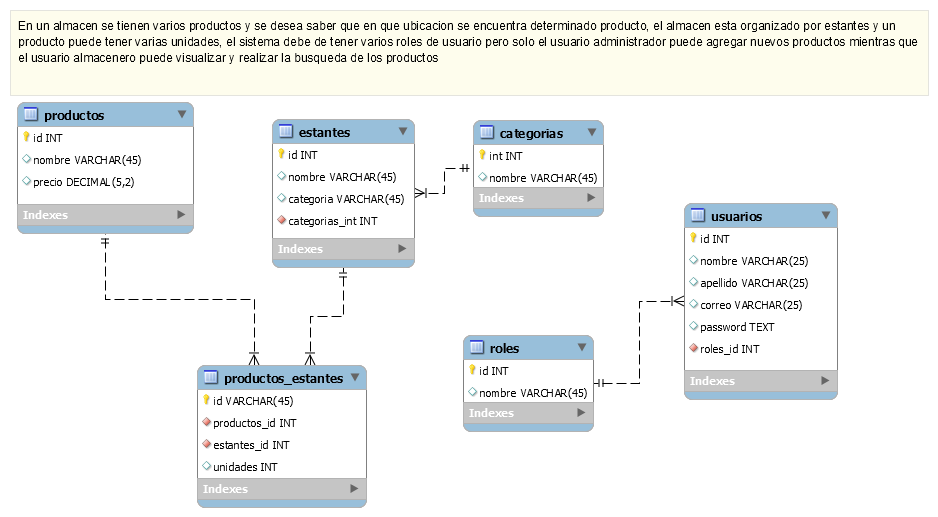
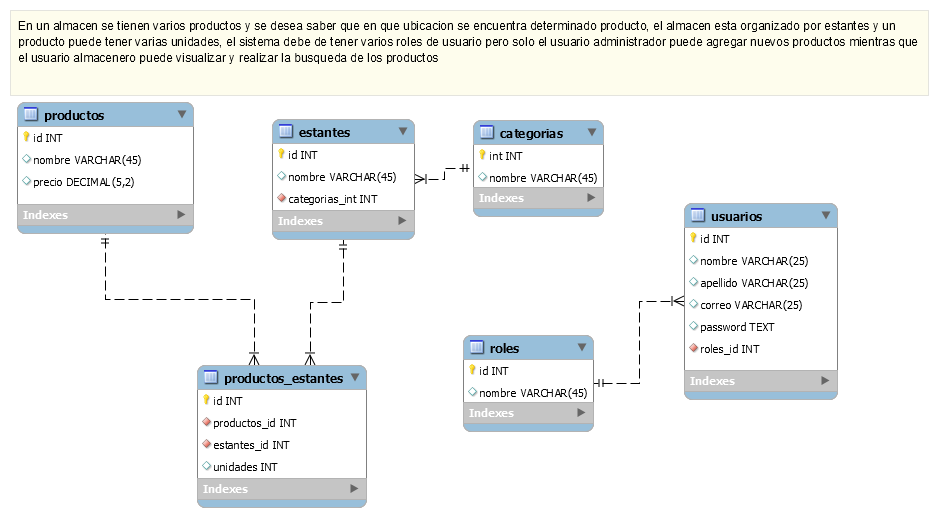
agregando el modelo de la tabla productoEstante y agregando en el archivo relaciones

Changed region(s): [[0.2783, 0.3404, 0.4638, 0.5261], [0.2473, 0.7737, 0.3092, 0.8046]]

diff --git a/src/models/productos.js b/src/models/productos.js
@@ -1,25 +1,38 @@
-// DAtatypes => https://sequelize.org/master/manual/model-basics.html#data-types
+// Datatypes => https://sequelize.org/master/manual/model-basics.html#data-types
 import { DataTypes } from "sequelize";
 import { conexion } from "../config/sequelize";
 
 // Opciones para poner a la columnas: https://sequelize.org/master/manual/model-basics.html#column-options
-
-export default producto_model = () => conexion.define("producto",{
-    productoId: {
-        type:DataTypes.INTEGER,
-        allowNull: false,
-        primaryKey: true,
-        unique:true,
-        autoIncrement: true,
-        field: 'id',
-    },
-    productoNombre: {
-        type: DataTypes,stringify(45),
-        field: "nombre",
-    },
-    productoPrecio: {
-        type: DataTypes.DECIMAL(5, 2),
-        field: "precio",
-    },
-});
+// export default producto_model = () =>
+export default () =>
+    conexion.define(
+        "producto", // nombre del modelo
+        {
+            productoId: {
+                type: DataTypes.INTEGER,
+                allowNull: false,
+                primaryKey: true,
+                unique: true,
+                autoIncrement: true,
+                field: 'id',
+            },
+            productoNombre: {
+                type: DataTypes.STRING(45),
+                field: "nombre",
+            },
+            productoPrecio: {
+                type: DataTypes.DECIMAL(5, 2),
+                field: "precio",
+            },
+        },
+        {
+            tableName: "productos",
+            timestamps: true, // su valor por defecto es true
+            // esto son campos de auditoria, se cran dos columna reatedAt, updatedAt, el
+            // createdAt => se va a registrar la hora actual en la cual se creo ese ServiceWorkerRegistration,
+            // updateAp => va a guardar la hora actual cuando cualquier campo se registre se modifique
+            createdAt: "fecha_creacion",
+            updatedAt: "ultima_modificacion",
+        }
+    );
 

diff --git a/src/config/server.js b/src/config/server.js
@@ -1,19 +1,22 @@
-import express from "express"
-import { json } from "body-parser"
-import { conexion } from "./sequelize"
+import express from "express";
+import { json } from "body-parser";
+import { conexion } from "./sequelize";
+import { Categoria } from "./sequelize";
+import * as prueba from "./relaciones";
+
 
 export default class Server {
-    constructor(){
+    constructor() {
         this.app = express();
         // Definimos el puerto que por lo general es una variable de entoron (esto solo se da en servidores de produccion como HEROKU, DIGITAL OCEN, AZURE) en el caso que no encontrase esa variable de entorno estara el definido (8000)
         this.port = process.env.PORT || 8000;
         this.bodyParser();
     }
-    bodyParser(){
+    bodyParser() {
         // Serive para configurar la forma en la cual el API REST vva a recibir datos del front mediante el body
         this.app.use(json());
     }
-    start(){
+    start() {
         //Sirver para levantar el servidor en el cual le tenemos que pasar el puerto y si todo es exitoso ingresaremos al callback (segundo parametro)
         this.app.listen(this.port, async () => {
             console.log(`Servidor corriendo en: http//:127.0.0.1:${this.port}`);
@@ -21,9 +24,10 @@ export default class Server {
             // alter => si hubo algun cambio en la BD volvera a generar SOLAMENTE esos cambios
             // force => RESETEA (borra) toda la BD y su contenido y lo vuelve a crear de 0, NUNCA USAR ESTO EN MODO PRODUCCION
             try {
-                await conexion.sync();
+                // await conexion.sync({ force: true }); => { force: true } con esto se resetea y vuelve a crear la base datos
+                await conexion.sync({ force: true });
                 console.log("Base de datos sincronizada correctamente");
-            } catch (error){
+            } catch (error) {
                 console.log(error);
             }
         })

diff --git a/src/config/relaciones.js b/src/config/relaciones.js
@@ -1,0 +1,47 @@
+import categoria_model from "../models/categoria";
+import estante_model from "../models/estante";
+import producto_model from "../models/productos";
+import producto_estante_model from "../models/productoEstante"
+
+// creamos las variables con la referencias a sus modelso correspondientes
+// al momento de llamarlos lo que vaa suceder es que se va a crear la tabla en la base de datos
+// adicionalmente a ello almacenamos su resultado para poder crear posteriormenten sus relaciones
+export const Categoria = categoria_model();
+export const Estante = estante_model();
+export const Producto = producto_model();
+export const productoEstante = producto_estante_model()
+
+// https://sequelize.org/master/manual/assocs.html
+// uan vez definida todos los modelos ahora pasamos a crear sus relaciones
+// Una categoria tiene muchos estantes
+
+Categoria.hasMany(Estante, {
+    foreignKey: {
+        name: 'categorias_id',
+        allowNull: false,
+    },
+});
+// Un estante pertenece a una categoria
+Estante.belongsTo(Categoria, {
+    foreignKey: "categoria_id"
+})
+
+Estante.hasMany(productoEstante, {
+    foreignKey: {
+        name: "estantes_id",
+        allowNull: false,
+    }
+});
+
+productoEstante.belongsTo(Estante, {
+    foreignKey: "estantes_id",
+});
+Producto.hasMany(productoEstante, {
+    foreignKey: {
+        name: "productos_id",
+        allowNull: false,
+    },
+});
+productoEstante.belongsTo(Producto, {
+    foreignKey: "productos_id",
+});

diff --git a/src/models/productoEstante.js b/src/models/productoEstante.js
@@ -1,0 +1,26 @@
+import { DataTypes } from "sequelize";
+import { conexion } from "../config/sequelize";
+
+export default () =>
+    conexion.define(
+        "producto_estante",
+        {
+            productoEstanteId: {
+                primaryKey: true,
+                type: DataTypes.INTEGER,
+                field: "id",
+                unique: true,
+                allowNull: false,
+                autoIncrement: true,
+            },
+            productoEstanteUnidad: {
+                field: "unidad",
+                type: DataTypes.INTEGER,
+                allowNull: false,
+            },
+        },
+        {
+            tableName: "productos_estantes",
+            timestamps: false,
+        }
+    );

diff --git a/src/models/estante.js b/src/models/estante.js
@@ -1,0 +1,24 @@
+import { DataTypes } from "sequelize";
+import { conexion } from "../config/sequelize";
+export default () =>
+    conexion.define(
+        "estante",
+        {
+            estanteId: {
+                primaryKey: true,
+                field: 'id',
+                autoIncrement: true,
+                unique: true,
+                allowNull: false,
+                type: DataTypes.INTEGER,
+            },
+            estanteNombre: {
+                field: "nombre",
+                type: DataTypes.STRING(45),
+            },
+        },
+        {
+            tableName: "estantes",
+            timestamps: false,
+        }
+    );

diff --git a/src/models/categoria.js b/src/models/categoria.js
@@ -1,0 +1,22 @@
+import { DataTypes } from "sequelize";
+import { conexion } from "../config/sequelize";
+
+export default () =>
+    conexion.define(
+        "categoria",
+        {
+            categoriaId: {
+                allowNull: false,
+                type: DataTypes.INTEGER,
+                primaryKey: true,
+                field: "id",
+            },
+            categoriaNombre: {
+                type: DataTypes.STRING(45),
+                field: "nombre",
+            },
+        },
+        {
+            tableName: "categorias",
+        }
+    );

diff --git a/src/config/sequelize.js b/src/config/sequelize.js
@@ -10,7 +10,7 @@ export const conexion = new Sequelize(
         host: "127.0.0.1",
         port: 3306,
         timezone: "-05:00", //no funciona en SQLITE
-        dialectOptions:{
+        dialectOptions: {
             //sirve para que al momento de mostrar las fechgas, automaticamente las convierta a string y no tener que hacer una converison manual
             dateStrings: true,
         },
